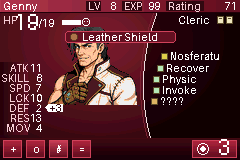
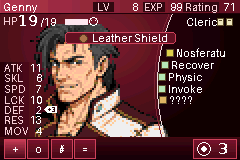
Ajustar proporciones a la guía: retrato grande, alineación de stats, comparación superpuesta
Claude-Session: https://claude.ai/code/session_01C4QAM7MwvCQVjJLG12SBSt

diff --git a/gba_status/generar.py b/gba_status/generar.py
@@ -22,6 +22,7 @@ for y in range(H):
         img.putpixel((x, y), lerp((128, 32, 48), (40, 6, 14), k))
 
 # retrato (arte del usuario, fondo morado transparente)
+RX, RY = -12, 22
 art = Image.open("retrato_busto.png").convert("RGB")
 bgc = (77, 26, 77)
 # quitar fondo morado y marco gris conectado al borde (flood fill)
@@ -37,10 +38,13 @@ for y in range(art.height):
     for x in range(art.width):
         if art.getpixel((x, y)) == bgc: mask.putpixel((x, y), 0)
         art.putpixel((x, y), c(*art.getpixel((x, y))))
-img.paste(art, (44, 26), mask)
+ESC = 2.0  # cabeza grande, cortada bajo los hombros
+art = art.resize((int(art.width * ESC), int(art.height * ESC)), Image.NEAREST)
+mask = mask.resize(art.size, Image.NEAREST)
+img.paste(art, (RX, RY), mask)
 
 # semicirculo negro translucido (centro fuera de pantalla a la derecha)
-cx, cy, r = 343, 85, 200
+cx, cy, r = 337, 85, 180
 m = Image.new("L", (W, H), 0)
 ImageDraw.Draw(m).ellipse([cx - r, cy - r, cx + r, cy + r], fill=150)
 img = Image.composite(Image.new("RGB", (W, H)), img, m)
@@ -62,61 +66,72 @@ def big(x, y, s, col=TXT):
     tmp = tmp.resize((80, 24), Image.NEAREST)
     img.paste(Image.new("RGB", tmp.size, col), (x, y), tmp)
 
-# barra superior con degradado horizontal
-grad_rect(0, 0, 239, 11, (176, 56, 80), (96, 16, 32), vertical=False)
-d.line([(0, 12), (239, 12)], fill=c(32, 4, 10))
-t(3, 0, "Genny")
-for x0, x1, lab in [(86, 100, "LV"), (122, 141, "EXP"), (166, 203, "Rating")]:
-    d.rectangle([x0, 1, x1, 10], fill=DARK); t(x0 + 2, 0, lab, LBL)
-tr(116, 0, "8"); tr(160, 0, "99"); tr(237, 0, "71")
+# mini fuente 3x5 para la etiqueta +3
+MINI = {"+": ["000","010","111","010","000"], "3": ["111","001","011","001","111"]}
+def mini(x, y, s, col):
+    for ch in s:
+        for j, fila in enumerate(MINI[ch]):
+            for i, b in enumerate(fila):
+                if b == "1": d.point((x + i, y + j), fill=col)
+        x += 4
+
+# barra superior
+grad_rect(0, 0, 239, 12, (176, 56, 80), (96, 16, 32), vertical=False)
+d.line([(0, 13), (239, 13)], fill=c(32, 4, 10))
+t(3, 1, "Genny")
+for x0, x1, lab in [(93, 113, "LV"), (143, 164, "EXP"), (183, 218, "Rating")]:
+    d.rectangle([x0, 2, x1, 11], fill=DARK); t(x0 + (x1 - x0 - d.textlength(lab, font=f)) // 2, 1, lab, LBL)
+tr(138, 1, "8"); tr(182, 1, "99"); tr(236, 1, "71")
 
 # HP
-t(3, 14, "HP", LBL); big(14, 12, "19"); t(40, 17, "/19")
-d.rectangle([62, 20, 80, 24], fill=TXT)
-d.ellipse([82, 18, 89, 25], outline=TXT); d.point([(84, 21), (87, 21)], fill=TXT)
-t(178, 14, "Cleric")
+t(3, 15, "HP", LBL); fb = ImageFont.truetype("/usr/share/fonts/truetype/dejavu/DejaVuSans-Bold.ttf", 15)
+d.text((18, 12), "19", font=fb, fill=TXT); t(42, 16, "/19")
+d.rectangle([65, 19, 87, 24], fill=c(248, 224, 232))
+d.ellipse([89, 17, 97, 25], outline=TXT); d.point([(91, 20), (95, 20)], fill=TXT)
+tr(214, 16, "Cleric")
 for x in (217, 226):
-    d.rectangle([x, 16, x + 6, 23], fill=c(232, 224, 184), outline=c(88, 72, 40))
-    d.line([(x + 2, 18), (x + 4, 18)], fill=c(88, 72, 40))
+    d.rectangle([x, 18, x + 6, 25], fill=c(232, 224, 184), outline=c(88, 72, 40))
+    d.line([(x + 2, 20), (x + 4, 20)], fill=c(88, 72, 40))
 
 # banner del objeto
-d.rounded_rectangle([65, 31, 175, 42], 3, fill=c(96, 16, 32), outline=FR)
-d.ellipse([70, 33, 77, 40], fill=c(168, 112, 72), outline=c(88, 56, 32))
-t(82, 31, "Leather Shield")
+d.rounded_rectangle([65, 32, 175, 43], 3, fill=c(96, 16, 32), outline=FR)
+d.ellipse([79, 34, 87, 42], fill=c(168, 112, 72), outline=c(88, 56, 32))
+t(92, 32, "Leather Shield")
 
-# columna de stats con degradado horizontal oscuro
-grad_rect(0, 62, 27, 134, (40, 6, 14), (96, 20, 36), vertical=False)
-stats = [("ATK", "11"), ("SKILL", "6"), ("SPD", "7"), ("LCK", "10"),
+# stats: etiquetas alineadas a la izquierda, valores a la derecha
+grad_rect(0, 62, 34, 136, (40, 6, 14), (88, 18, 32), vertical=False)
+stats = [("ATK", "11"), ("SKL", "6"), ("SPD", "7"), ("LCK", "10"),
          ("DEF", "2"), ("RES", "13"), ("MOV", "4")]
 for i, (k, v) in enumerate(stats):
-    y = 62 + i * 10
-    tr(28, y, k, LBL); tr(42, y, v)
-y0 = 62 + 40
-d.polygon([(45, y0 + 5), (48, y0 + 2), (62, y0 + 2), (62, y0 + 9), (48, y0 + 9)], fill=TXT)
-t(49, y0, "+3", DARK)
+    y = 62 + round(i * 10.5)
+    t(4, y, k, LBL); tr(42, y, v)
+d.polygon([(44, 109), (47, 106), (56, 106), (56, 112), (47, 112)], fill=TXT)
+mini(48, 107, "+3", DARK)
 
 # libro de comandos
-skills = [("Nosferatu", 170, 50, (216, 200, 72)), ("Recover", 166, 62, (176, 224, 176)),
-          ("Physic", 162, 73, (176, 224, 176)), ("Invoke", 162, 84, (176, 224, 176)),
-          ("????", 160, 95, (216, 176, 96))]
-for s, x, y, col in skills:
-    d.rectangle([x - 9, y + 3, x - 3, y + 9], fill=c(*col), outline=c(88, 72, 40))
-    t(x, y, s)
+skills = [("Nosferatu", 176, 47, (216, 200, 72)), ("Recover", 171, 59, (176, 224, 176)),
+          ("Physic", 168, 71, (176, 224, 176)), ("Invoke", 168, 83, (176, 224, 176)),
+          ("????", 169, 94, (216, 176, 96))]
+for s_, x, y, col in skills:
+    d.rectangle([x - 10, y + 2, x - 3, y + 9], fill=c(*col), outline=c(88, 72, 40))
+    t(x, y, s_)
 
-# barra inferior con degradado vertical
-grad_rect(0, 138, 239, 159, (64, 10, 22), (24, 4, 8))
-icons = ["+", "o", "#", "="]
-for i, ic in enumerate(icons):
-    x = 3 + i * 23
-    grad_rect(x, 140, x + 18, 157, (200, 64, 88) if i == 2 else (176, 40, 64), (96, 16, 32))
-    d.rectangle([x, 140, x + 18, 157], outline=FR)
-    t(x + 7, 143, ic)
-grad_rect(192, 140, 236, 157, (176, 40, 64), (96, 16, 32))
-d.rectangle([192, 140, 236, 157], outline=FR)
-d.ellipse([197, 143, 208, 154], outline=TXT); d.ellipse([200, 146, 205, 151], fill=TXT)
-big(219, 137, "3")
+# barra inferior
+grad_rect(0, 137, 239, 159, (64, 10, 22), (24, 4, 8))
+for i, ic in enumerate(["+", "o", "#", "="]):
+    x = 4 + i * 23.5; x = int(x)
+    grad_rect(x, 139, x + 21, 158, (200, 64, 88) if i == 0 else (120, 24, 44), (72, 12, 26))
+    d.rectangle([x, 139, x + 21, 158], outline=FR)
+    t(x + 8, 143, ic)
+grad_rect(193, 139, 236, 158, (120, 24, 44), (72, 12, 26))
+d.rectangle([193, 139, 236, 158], outline=FR)
+d.ellipse([197, 142, 210, 155], outline=TXT); d.ellipse([201, 146, 206, 151], fill=TXT)
+d.text((218, 140), "3", font=fb, fill=TXT)
 
 img = img.point(q5)
 img.save("estado_gba.png")
 img.resize((W * 4, H * 4), Image.NEAREST).save("estado_gba_x4.png")
 print(len(img.getcolors(4096)), "colores")
+
+g = Image.open("guia.png").convert("RGB").resize((W, H), Image.LANCZOS)
+Image.blend(g, img, 0.5).resize((W * 4, H * 4), Image.NEAREST).save("comparacion_x4.png")
